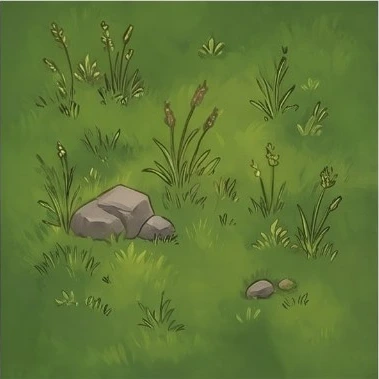
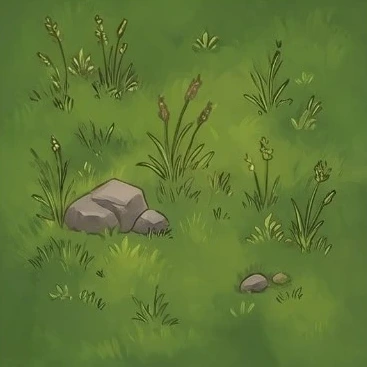
Quarteirão de teste: borda das peças de chão aparada e vista de cima
- Peças de chão aparadas em 6 px de cada lado, de forma simétrica (as estradas continuam centradas). A faixa clara do separador da prancha saiu; a borda ficou agora um pouco mais escura que o interior (de −8 a −20 níveis, medida em 3 px). Isso ainda precisa de revisão.
- Vista de cima (?visao=topo) para conferir o alinhamento do quarteirão.
- Costuras ainda não regeneradas em previas/costuras-chao.png.

Claude-Session: https://claude.ai/code/session_01CGVLTDGSSxihYWLuUwRgVi

diff --git a/confusion/web/teste-quarteirao/quarteirao.js b/confusion/web/teste-quarteirao/quarteirao.js
@@ -314,7 +314,11 @@ function quadro(agora) {
   jogador.position.set(estado.x, 0, estado.z);
   jogador.quaternion.copy(camera.quaternion);   // o personagem só fica de frente para a câmera (nunca fino)
 
-  if (VISAO === 'geral') {
+  if (VISAO === 'topo') {
+    camera.position.set(4.5, 120, 4.6);
+    camera.lookAt(4.5, 0, 4.5);
+    camera.fov = 40;
+  } else if (VISAO === 'geral') {
     camera.position.set(0, 96, 52);
     camera.lookAt(0, 0, -2);
     camera.fov = 40;
